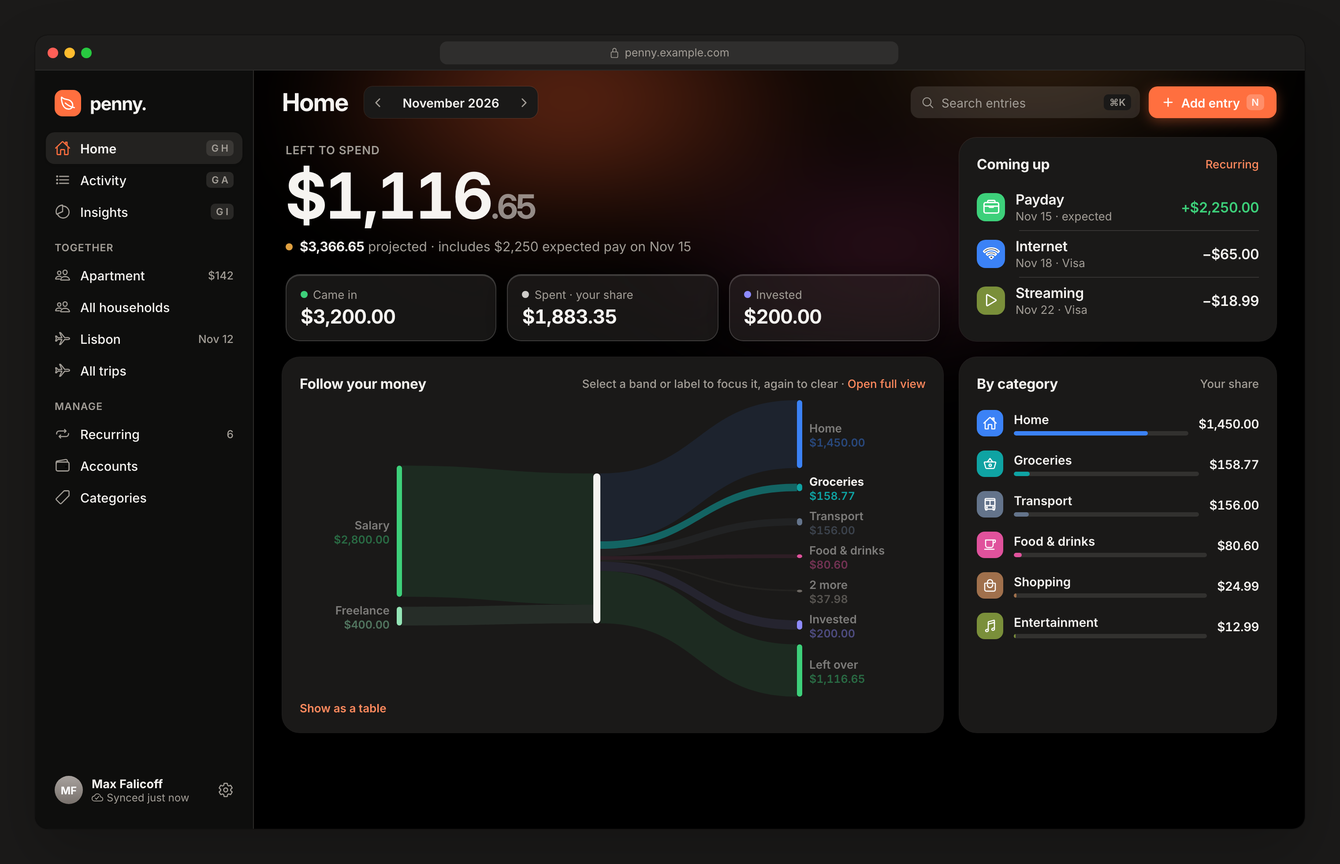
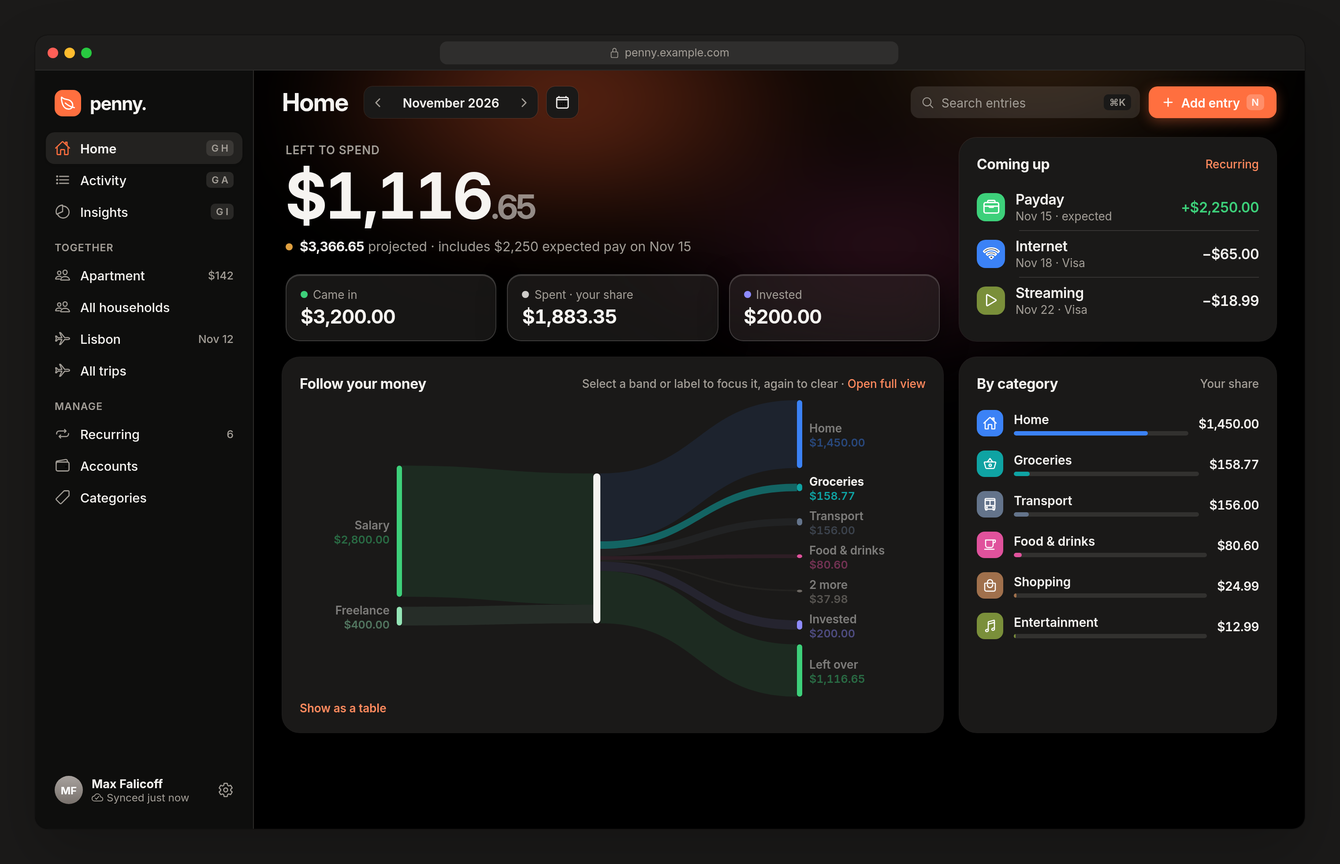
feat(web): add a calendar button beside the month control on iPad and web Home (MAZ-258)
The ipad-home and web-home cards now draw a calendar button right after
the month control, opening the calendar sheet over Home. The web shows it
from 768px: a square button beside the segmented month control with a
mouse, and a round glass button after Next on a touch tablet. On phones it
stays at the end of the top row beside Settings. It is one button at every
width, so the sheet returns focus to it.

Re-renders both baselines, updates the contract hashes, re-captures the
two cards on the web, and records the iPad app's trailing calendar button
as a native follow-up deviation on ipad-home.

Changed region(s): [[0.4062, 0.0934, 0.4375, 0.1556]]

diff --git a/apps/web/src/features/home/HomePage.tsx b/apps/web/src/features/home/HomePage.tsx
@@ -37,8 +37,8 @@ const RECENT = 5;
  * - from 1100px (`web-home`, `ipad-home`): Came in / Spent / Invested under the hero with Coming
  *   up beside it, then the Sankey beside By category.
  *
- * The calendar is a sheet over Home, opened from the calendar button in the phone's top row;
- * `?day=` opens it on that day.
+ * The calendar is a sheet over Home, opened from the calendar button: in the phone's top row
+ * beside Settings, and beside the month control from 768px (MAZ-258). `?day=` opens it on that day.
  */
 export function HomePage({ search }: { search: HomeSearch }) {
   const navigateTo = useNavigate({ from: "/" });
@@ -66,17 +66,16 @@ export function HomePage({ search }: { search: HomeSearch }) {
         onChange={(next) => {
           navigate(() => (next ? { month: next } : {}));
         }}
-        actions={
-          <PhoneHomeActions
-            onCalendar={
-              ledger && report && !(isEmptyLedger(ledger) && report.empty)
-                ? () => {
-                    setCalendarOpen(true);
-                  }
-                : undefined
-            }
-          />
+        calendar={
+          ledger && report && !(isEmptyLedger(ledger) && report.empty) ? (
+            <CalendarButton
+              onClick={() => {
+                setCalendarOpen(true);
+              }}
+            />
+          ) : null
         }
+        actions={<PhoneHomeActions />}
       />
       {!ledger || !view || !report ? (
         <LoadingState label="Loading your month…" />
@@ -503,20 +502,23 @@ function Whole({ cents, currency }: { cents: number; currency: string }) {
 }
 
 /**
- * Home's glass buttons on phones (cards `iphone-home`, `iphone-empty-home`): the calendar, which
- * opens the calendar sheet over Home, and Settings, where Recurring, Accounts and Categories live too.
+ * The calendar button, which opens the calendar sheet over Home. A round glass button on phones
+ * (`iphone-home`) and touch tablets (`ipad-home`), and a square button beside the month control
+ * on desktop (`web-home`). An empty month has no calendar (`iphone-empty-home`).
  */
-function PhoneHomeActions({ onCalendar }: { onCalendar: (() => void) | undefined }) {
+function CalendarButton({ onClick }: { onClick: () => void }) {
   return (
-    <>
-      {onCalendar ? (
-        <button type="button" className="glass glass-button" aria-label="Calendar" aria-haspopup="dialog" onClick={onCalendar}>
-          <Icon name="calendar" size={20} />
-        </button>
-      ) : null}
-      <Link to="/settings" className="glass glass-button" aria-label="Settings">
-        <Icon name="settings" size={20} />
-      </Link>
-    </>
+    <button type="button" className="glass glass-button home-calendar" aria-label="Calendar" aria-haspopup="dialog" onClick={onClick}>
+      <Icon name="calendar" size={20} />
+    </button>
+  );
+}
+
+/** Home's Settings button on phones (`iphone-home`), where Recurring, Accounts and Categories live too. */
+function PhoneHomeActions() {
+  return (
+    <Link to="/settings" className="glass glass-button" aria-label="Settings">
+      <Icon name="settings" size={20} />
+    </Link>
   );
 }

diff --git a/apps/web/e2e/home.spec.ts b/apps/web/e2e/home.spec.ts
@@ -134,12 +134,27 @@ test("the money flow is chosen with the keyboard and announced", async ({ page, 
   expect(errors).toEqual([]);
 });
 
-test("the calendar is a sheet over Home that lists a day's entries (iphone-calendar, MAZ-224)", async ({ page, isMobile }) => {
-  test.skip(!isMobile, "the calendar button is in the phone's top row");
+test("the calendar is a sheet over Home that lists a day's entries (iphone-calendar, MAZ-224, MAZ-258)", async ({ page }) => {
   await startDemo(page);
   const errors = watchForErrors(page);
   const before = await hero(page).textContent();
-  await page.getByRole("banner").getByRole("button", { name: "Calendar" }).click();
+  const calendar = page.getByRole("banner").getByRole("button", { name: "Calendar" });
+  await expect(calendar).toBeVisible();
+  const width = page.viewportSize()?.width ?? 0;
+  if (width >= 768) {
+    // ipad-home, web-home: the calendar sits right after the month control (Next on a tablet).
+    const next = await page.getByRole("banner").getByRole("button", { name: "Next month" }).boundingBox();
+    const box = await calendar.boundingBox();
+    expect(next && box && box.x - (next.x + next.width)).toBeGreaterThanOrEqual(0);
+    expect(next && box && box.x - (next.x + next.width)).toBeLessThanOrEqual(24);
+    expect(next && box && Math.abs(box.y + box.height / 2 - (next.y + next.height / 2))).toBeLessThanOrEqual(2);
+  } else {
+    // iphone-home: at the end of the top row, just before Settings.
+    const settings = await page.getByRole("banner").getByRole("link", { name: "Settings" }).boundingBox();
+    const box = await calendar.boundingBox();
+    expect(settings && box && settings.x - (box.x + box.width)).toBeLessThanOrEqual(16);
+  }
+  await calendar.click();
   const sheet = page.getByRole("dialog", { name: "November 2026" });
   await expect(sheet).toBeVisible();
   await expect(sheet.getByRole("button", { name: /^Monday, November 30/ })).toHaveAccessibleName("Monday, November 30: 2 expected or scheduled");

diff --git a/apps/web/tests/home.test.tsx b/apps/web/tests/home.test.tsx
@@ -149,6 +149,30 @@ describe("Home", () => {
     expect(within(topbar).getByRole("button", { name: "Previous month" })).toBeInTheDocument();
     expect(within(topbar).getByText("November 2026", { selector: ".month-nav__label" })).toBeInTheDocument();
     expect(within(screen.getByRole("main")).queryByRole("button", { name: "Previous month" })).not.toBeInTheDocument();
+    // web-home (MAZ-258): the calendar button follows the month control, ahead of the phone's Settings.
+    const calendar = within(topbar).getByRole("button", { name: "Calendar" });
+    expect(calendar.previousElementSibling).toHaveClass("month-bar");
+    expect(calendar.nextElementSibling).toHaveClass("topbar__actions");
+    expect(within(topbar).getAllByRole("button", { name: "Calendar" })).toHaveLength(1);
+  });
+
+  it("opens the calendar sheet from beside the month control on desktop and returns focus to it (MAZ-258)", async () => {
+    stubWidth(1440);
+    server();
+    const user = userEvent.setup();
+    renderApp("/?month=2026-11");
+    await loaded();
+    const calendar = within(screen.getByRole("banner")).getByRole("button", { name: "Calendar" });
+    expect(calendar).toHaveAttribute("aria-haspopup", "dialog");
+    await user.click(calendar);
+    const sheet = await screen.findByRole("dialog", { name: "November 2026" });
+    await user.click(within(sheet).getByRole("button", { name: "Close" }));
+    await waitFor(() => {
+      expect(screen.queryByRole("dialog")).not.toBeInTheDocument();
+    });
+    await waitFor(() => {
+      expect(within(screen.getByRole("banner")).getByRole("button", { name: "Calendar" })).toHaveFocus();
+    });
   });
 
   it("reads Recent rows as the card does, date first, and signs Coming up (MAZ-223)", async () => {

diff --git a/apps/web/src/design/home.css b/apps/web/src/design/home.css
@@ -161,6 +161,51 @@
   }
 }
 
+/*
+ * Home's calendar button (MAZ-258). Phones (`iphone-home`): a round glass button at the end of the
+ * top row, beside Settings. Desktop (`web-home`): a square button like the month control, right
+ * beside it. Touch tablets (`ipad-home`): a round glass button beside the Next button.
+ */
+@media (max-width: 767.98px) {
+  .topbar__tools .home-calendar {
+    margin-inline-start: auto;
+  }
+}
+
+@media (min-width: 768px) {
+  .home-calendar {
+    width: 36px;
+    height: 36px;
+    border: 1px solid var(--pk-separator);
+    border-radius: 10px;
+    background: var(--pk-surface);
+    box-shadow: 0 1px 2px rgb(0 0 0 / 0.05);
+    backdrop-filter: none;
+  }
+
+  .home-calendar .icon {
+    width: 17px !important;
+    height: 17px !important;
+  }
+}
+
+@media (min-width: 768px) and (hover: none) and (pointer: coarse) {
+  .home-calendar {
+    width: 44px;
+    height: 44px;
+    border: 0.5px solid var(--pk-glass-edge);
+    border-radius: 22px;
+    background: var(--pk-glass);
+    box-shadow: inset 0 1px 0 var(--pk-glass-edge), var(--pk-glass-shadow);
+    backdrop-filter: blur(22px) saturate(190%);
+  }
+
+  .home-calendar .icon {
+    width: 20px !important;
+    height: 20px !important;
+  }
+}
+
 .empty-actions {
   display: flex;
   flex-wrap: wrap;

diff --git a/apps/web/src/features/home/parts.tsx b/apps/web/src/features/home/parts.tsx
@@ -48,13 +48,16 @@ export function Panel({ title, level = 2, action, className, list, children }: {
  * - desktop (`web-home`, `web-insights`): a bordered segmented control with the chevrons inside.
  *   The cards have no This month link (MAZ-224): the month list and the chevrons reach it.
  *
- * `actions` go at the end of the phone row (Home's calendar and settings buttons).
+ * `calendar` is Home's calendar button (MAZ-258). It sits beside the month control from 768px, as
+ * on `ipad-home` and `web-home`, and at the end of the phone row, beside `actions` (Settings).
+ * It is one button at every width, so the calendar sheet always returns focus to it.
  */
-export function MonthBar({ month, onChange, actions }: { month: string; onChange: (month: string | undefined) => void; actions?: ReactNode }) {
+export function MonthBar({ month, onChange, calendar, actions }: { month: string; onChange: (month: string | undefined) => void; calendar?: ReactNode; actions?: ReactNode }) {
   const slot = useTopbarSlot();
   const bar = (
     <>
       <MonthBarControls month={month} onChange={onChange} />
+      {calendar}
       {actions ? <div className="topbar__actions">{actions}</div> : null}
     </>
   );

diff --git a/docs/design/penny-ios/ipad/home.html b/docs/design/penny-ios/ipad/home.html
@@ -50,6 +50,7 @@
       <div class="glass gbtn"><i data-i="chevron-back"></i></div>
       <div class="glass gcap">November 2026 <i data-i="chevron-down" style="width:15px;height:15px;--sw:52px"></i></div>
       <div class="glass gbtn"><i data-i="chevron-forward"></i></div>
+      <div class="glass gbtn"><i data-i="calendar"></i></div>
       <div class="sp"></div>
       <div class="glass gbtn"><i data-i="search"></i></div>
       <div class="glass gcap tinted"><i data-i="add" style="width:19px;height:19px;--sw:44px"></i>Add entry</div>

diff --git a/docs/design/penny-ios/web/home.html b/docs/design/penny-ios/web/home.html
@@ -33,6 +33,7 @@
     <div class="wtop">
       <h1>Home</h1>
       <div class="month"><i><i data-i="chevron-back"></i></i><span>November 2026</span><i><i data-i="chevron-forward"></i></i></div>
+      <div class="btn icon" title="Calendar"><i data-i="calendar"></i></div>
       <div class="sp"></div>
       <div class="wsearch"><i data-i="search"></i>Search entries<kbd>⌘K</kbd></div>
       <div class="btn primary"><i data-i="add"></i>Add entry <kbd>N</kbd></div>

diff --git a/docs/design/visual-acceptance.md b/docs/design/visual-acceptance.md
@@ -112,6 +112,7 @@ Both capture suites passed against a fresh environment: iOS on the iPhone 18 Pro
 - **MAZ-244 (2026-11-21).** Every iOS card was captured again on the iPhone 18 Pro and iPad Pro 11-inch (M5) simulators (iOS 27), light and dark. List section headers now use the cards' group heading everywhere (`cardSectionHeader()`, `CardSection`: small, semibold, upper case), as do Activity's and History's day headers, which read "Friday, Nov 6" (and "Fri, Nov 6" on iPad and in History). Entry rows read as the cards do: the day and account on Home, the account with "split 2 ways" or the schedule's cadence under Activity's day headers, the household's name on a shared row, and "of $12.80" or "your share" under the amount. Settings rows have the cards' neutral icon tiles and 50pt `.sr` metrics, as do Accounts and Categories; trip rows and New household use the neutral tile; selected chips (History, Paid by) are filled with the label color; and sheet close (×) and toolbar + glyphs are in the label color, with copper kept for the primary action. `iphone-category-picker` now matches. Shared rows don't say "you paid $2,900" yet, because Activity's shared rows carry no payer (follow-up recorded on MAZ-244).
 - **MAZ-232 (2026-11-21).** `iphone-recurring`, `iphone-schedule-detail`, `iphone-accounts`, `iphone-account-form`, `iphone-categories` and `iphone-category-form` were captured again on the web at 402×874, light and dark. The three pages have the card's subtitle, add with the toolbar +, and list their rows in solid groups under small upper-case labels with inset separators and chevrons; account and category names are regular weight, category tiles use the redesign colors, and Categories counts "N categories". Recurring rows are the cards' compact row with the category tile (an arrow down for income, the trend line for investments), a dimmed paused row with one "Paused · monthly" tag, the shared row as on the card, and the account on its own line instead of after a stranded "·". The schedule detail leads with the tile, the signed amount and cadence, Edit as the copper primary beside a solid Pause, and NEXT and DETAILS as solid groups. The forms have NAME and TYPE (or COLOR and ICON) headers over solid fields and groups, the type tiles' check badge, the card's helper, and no visible name or kind labels on the category form. `iphone-accounts` now matches; what remains waits for design decisions (reordering and the shortcuts footer, the number of colors and icons, move-and-remove) or for the kit's missing icons (tv, happy).
 - **MAZ-234 (2026-11-21).** The owner decided to change three cards instead of approving the web's differences. `web-sign-in` pins "Take a look around with sample data" to the bottom of the form side with the play icon, as `iphone-sign-in` does, with the web's note "Sample data in this tab only. Nothing is saved or sent to your server." `iphone-appearance` adds the Display section that `web-settings` shows (Show cents on Home, Reduce transparency, Week starts on). The new `iphone-sign-out-plain` card draws the sign-out confirmation with nothing waiting to sync: the red log-out tile, "Sign out of Penny?", Sign out and Cancel. The web was captured again at 1440×900 and 402×874, light and dark: the demo link is pinned to the bottom with its play icon at every width, and `iphone-sign-out-plain` matches. The server chip and SSO label remain MAZ-237; the Text size row, the Display section on `ipad-settings` and the demo note at phone width wait for design decisions; iOS has no Display section yet and no custom sign-out confirmation (MAZ-255).
+- **MAZ-258 (2026-11-21).** The owner decided to change two cards: `ipad-home` and `web-home` draw a calendar button right after the month control, which opens the calendar sheet over Home, so tablets and desktop reach the calendar without a `?day=` link. The web shows it from 768px: a square button beside the segmented month control with a mouse, and a round glass button after Next on a touch tablet. Both cards were captured again on the web at 1440×900 and 1194×834, light and dark; the button matches, and their web verdicts keep only their earlier follow-ups. The iPad app has the calendar in the toolbar's trailing group, so `ipad-home` adds a native follow-up.
 - **MAZ-180 (2026-11-18).** The nine cards it covered were captured again on the iPhone 18 Pro simulator (iOS 27): the hero glow on Home, empty Home, offline and create account, the Home calendar button, the category picker's Most used grid, shared trips in More details, the grouped draft amount and the Appearance previews. `iphone-create-account`, `iphone-category-picker`, `iphone-add-income` and `iphone-appearance` now match (with MAZ-179's, 15 matches and 34 deviations on iOS); the others keep only approved deviations. The light-mode contrast on the glow is fixed with them (MAZ-183, below).
 - **MAZ-181 (2026-11-19).** The nine shared and trip cards were captured again on the iPhone 18 Pro and iPad Pro 11-inch (M5) simulators (iOS 27). The household leads with members, its name and the meaning-colored balance, with the month in the section headers; People has the invite card; the shared expense form shows Paid by and the split above the keypad; Payment changed names its cause and strikes through only what changed; New household has its header and a pinned Create household; the Trips list shows Your share so far; and a shared trip leads with the trip total and your share, with Your share by category on iPad. `iphone-household-create` and `iphone-trips` now match; the others keep only approved deviations, and the iPad layouts remain MAZ-182. The seeded Lisbon trip has no shared expenses yet, so its totals read $0.00 and the iPad category section is empty.
 - **Emailed receipts (MAZ-184).** The 21 receipt cards (`iphone-receipt-*`, `ipad-receipt-*`, `web-receipt-*`) were added after this review. Their states are `blockedBy` in `redesign-states.json`: the full-stack seed has no receipt address or inbox items yet, so neither capture suite can open them, and their verdicts are recorded as `blocked` (`not-applicable` for the `web-*` cards on iOS). The counts above cover the 61 cards reviewed on 2026-11-12.

diff --git a/docs/design/penny-ios/README.md b/docs/design/penny-ios/README.md
@@ -35,7 +35,7 @@ Each screen is a standalone HTML file with a `@dsCard` marker, so the folder can
 - **Add entry:** a sheet with a large amount and an always-visible decimal keypad, so an expense takes about three taps. A segmented control switches between Expense, Income, and Invest. The three most-used categories appear as chips, and Date, Account, and Split are labeled rows. Receipt, repeat, and trip move under one disclosure row. Save is the glass check button in the sheet's toolbar, as in Apple's own apps.
 - **Activity:** entries are grouped by day with a daily net total. Filter chips sit at the top, and search is a glass field at the bottom (the iOS 26 pattern). Edit and Delete are swipe actions, not buttons on each row.
 - **Shared:** a household opens with its members and the balance ("you're owed $142.50"), followed by **Record payment** and **Expense** actions. Expenses, Balances, and People are tabs in a segmented control. Each row shows who paid and your share.
-- **iPad:** a floating glass sidebar (`NavigationSplitView`). Households appear in the sidebar directly with their balances, then All households (the Shared list, where you join or create one); the current and coming trips follow with their start dates, then All trips (MAZ-240). Home becomes a dashboard with the hero, a coming-up recurring panel, the Sankey as the main panel, and daily spending. Activity uses a list plus a detail pane, so there are no modal hops on the large screen. Add entry opens as a centered two-column form sheet and uses the hardware or system keyboard instead of the keypad.
+- **iPad:** a floating glass sidebar (`NavigationSplitView`). Households appear in the sidebar directly with their balances, then All households (the Shared list, where you join or create one); the current and coming trips follow with their start dates, then All trips (MAZ-240). Home becomes a dashboard with the month control and its calendar button in the toolbar, the hero, a coming-up recurring panel, the Sankey as the main panel, and daily spending. Activity uses a list plus a detail pane, so there are no modal hops on the large screen. Add entry opens as a centered two-column form sheet and uses the hardware or system keyboard instead of the keypad.
 - **Insights and calendar:** Insights shows a category donut, one month-over-month sentence, and the category list. The calendar sheet marks days with dots in the meaning colors only: gray for spent, green for income, indigo for invested, and an amber ring for scheduled.
 - **Entry details:** split, receipt/repeat/trip, and the category picker are stacked sheets. A personal split stores only a head count, so it shows "You" and "N other people" without names. An expense dated in the future counts toward Projected, and the Income form explains this, because the app has no separate "expected" field.
 - **Shared and trips:**
@@ -55,7 +55,7 @@ Each screen is a standalone HTML file with a `@dsCard` marker, so the folder can
 The web app uses the same tokens, color rules and money semantics as the iOS app, adapted for a mouse, a keyboard and wide screens:
 
 - **Shell:** a persistent left sidebar (Home, Activity, Insights; Together lists each household and All households, then each current or coming trip and All trips; Manage). A top bar holds the page title, the month switcher, a ⌘K search and a copper **Add entry** button (N). Glass is limited to small floating elements over the hero glow; panels are solid.
-- **Home:** the Left to spend hero with Came in / Spent / Invested tiles, Coming up, a large Sankey (select a band or label to focus it, again to clear; Show as a table lists every value), and By category.
+- **Home:** a calendar button beside the month switcher opens the calendar sheet; then the Left to spend hero with Came in / Spent / Invested tiles, Coming up, a large Sankey (select a band or label to focus it, again to clear; Show as a table lists every value), and By category.
 - **Activity:** a dense table grouped by day with daily totals, multi-select checkboxes, row actions on hover, and a detail panel on the right instead of a new page. Keyboard: ↑↓, ↵, E, ⌫, X.
 - **Insights:** the full-width Sankey with a click-to-focus band, a category table comparing with last month, and a six-month in/spent chart.
 - **Household:** an expenses table (paid by, split, total, your share, status) with Balances, Suggested payments and an overdue month beside it. Recording a payment still states that Penny never moves money.

diff --git a/apps/web/README.md b/apps/web/README.md
@@ -278,7 +278,7 @@ Code: `src/features/home/` (`model.ts` for the ledger view, the month report, gr
 | URL | Screen |
 | --- | --- |
 | `/` | **Left to spend** (the recorded remaining) as the hero and the **projected remaining** under it in the cards' short line (MAZ-224): "$X projected with expected pay" on phones, "$X projected · includes $Y expected pay on Nov 15" from 1100px. Below 1100px (`iphone-home`): the compact **Follow your money** summary (spent, invested, left), whose title opens Money flow and whose Insights button opens Insights, then **Recent** (the five newest recorded entries, personal and shared, with See all). From 1100px (`web-home`, `ipad-home`): Came in / Spent · your share / Invested, **Coming up** (scheduled occurrences not recorded yet and income dated after today), the Sankey and **By category**. |
-| `/?month=YYYY-MM&day=YYYY-MM-DD` | The month (default this month); `day` opens the **calendar sheet** (`iphone-calendar`) on that day. The phone's calendar button opens it too: Close, the month with Previous and Next, Today, the grid, and the selected day's entries with the day's net. Older links' `q`, `kind` and `category` are ignored. |
+| `/?month=YYYY-MM&day=YYYY-MM-DD` | The month (default this month); `day` opens the **calendar sheet** (`iphone-calendar`) on that day. Home's calendar button opens it too (at the end of the phone's top row, and beside the month control from 768px, as on `ipad-home` and `web-home`, MAZ-258): Close, the month with Previous and Next, Today, the grid, and the selected day's entries with the day's net. Older links' `q`, `kind` and `category` are ignored. |
 | `/money-flow?month=YYYY-MM` | **Money flow** (`iphone-money-flow`), pushed from Home with Back: "From coming in to going out", Came in, Went out and Left over (or Beyond income), the Sankey, the focus card, the focus hint and Show as a table. |
 | `/insights?month=YYYY-MM` | Below 1100px (`iphone-insights`): the spending donut with one month-over-month sentence, then the categories. From 1100px (`web-insights`): Came in, Went out, Left over (or Overspent) and the change in spending from last month, the money flow, the category table next to last month's, and the last six months. |
 

diff --git a/.design-sync/NOTES.md b/.design-sync/NOTES.md
@@ -23,6 +23,7 @@
 - **Shared schedule on Recurring (MAZ-219):** `iphone/recurring.html` shows Streaming as a shared schedule (Shared tag beside the title, the household's name on its own line, "your share" under the amount) and its footer adds a sentence about shared schedules. No kit change. Push the card at the next re-sync.
 - **Sidebar All households and trip rows (MAZ-240):** the web sidebar (`assets/web.js`, so every web card with a sidebar) adds All households after the households; the iPad cards with a sidebar (`home`, `activity`, `shared`, `trip`, `settings` and the four `receipt-*` cards that draw it) add All households, show a trip with its start date ("Lisbon Nov 12" instead of "Lisbon trip 3") and add All trips. The kit's `WebSidebar` doc describes the rows; the component is unchanged. Push the cards and the doc at the next re-sync.
 - **Demo link, Display and plain sign-out (MAZ-234):** `web/sign-in.html` pins "Take a look around with sample data" to the bottom of the form side with the play icon and the web's note; `iphone/appearance.html` adds the Display section (Show cents on Home, Reduce transparency, Week starts on); the new `iphone/sign-out-plain.html` is the sign-out confirmation with nothing waiting. No kit change. Push the three cards at the next re-sync.
+- **Calendar beside the month (MAZ-258):** `ipad/home.html` adds a round glass calendar button after the Next button, and `web/home.html` a square icon button (`.btn.icon`) after the month control. No kit change. Push the two cards at the next re-sync.
 
 ## Re-sync risks
 - **Do the whole re-sync in one change:** after a card or kit change, re-render the baselines (`node docs/design/penny-ios/render.mjs 2`), update the hashes in `contracts/design-baseline.json` (`npm run design:hashes` in `apps/web`), re-sync this project, and update the affected verdicts in `contracts/visual-comparisons.json`. The steps are in [visual acceptance](../docs/design/visual-acceptance.md#re-sync-after-a-design-change); `npm run test:core` and the web workflow fail on a stale baseline or hash.
